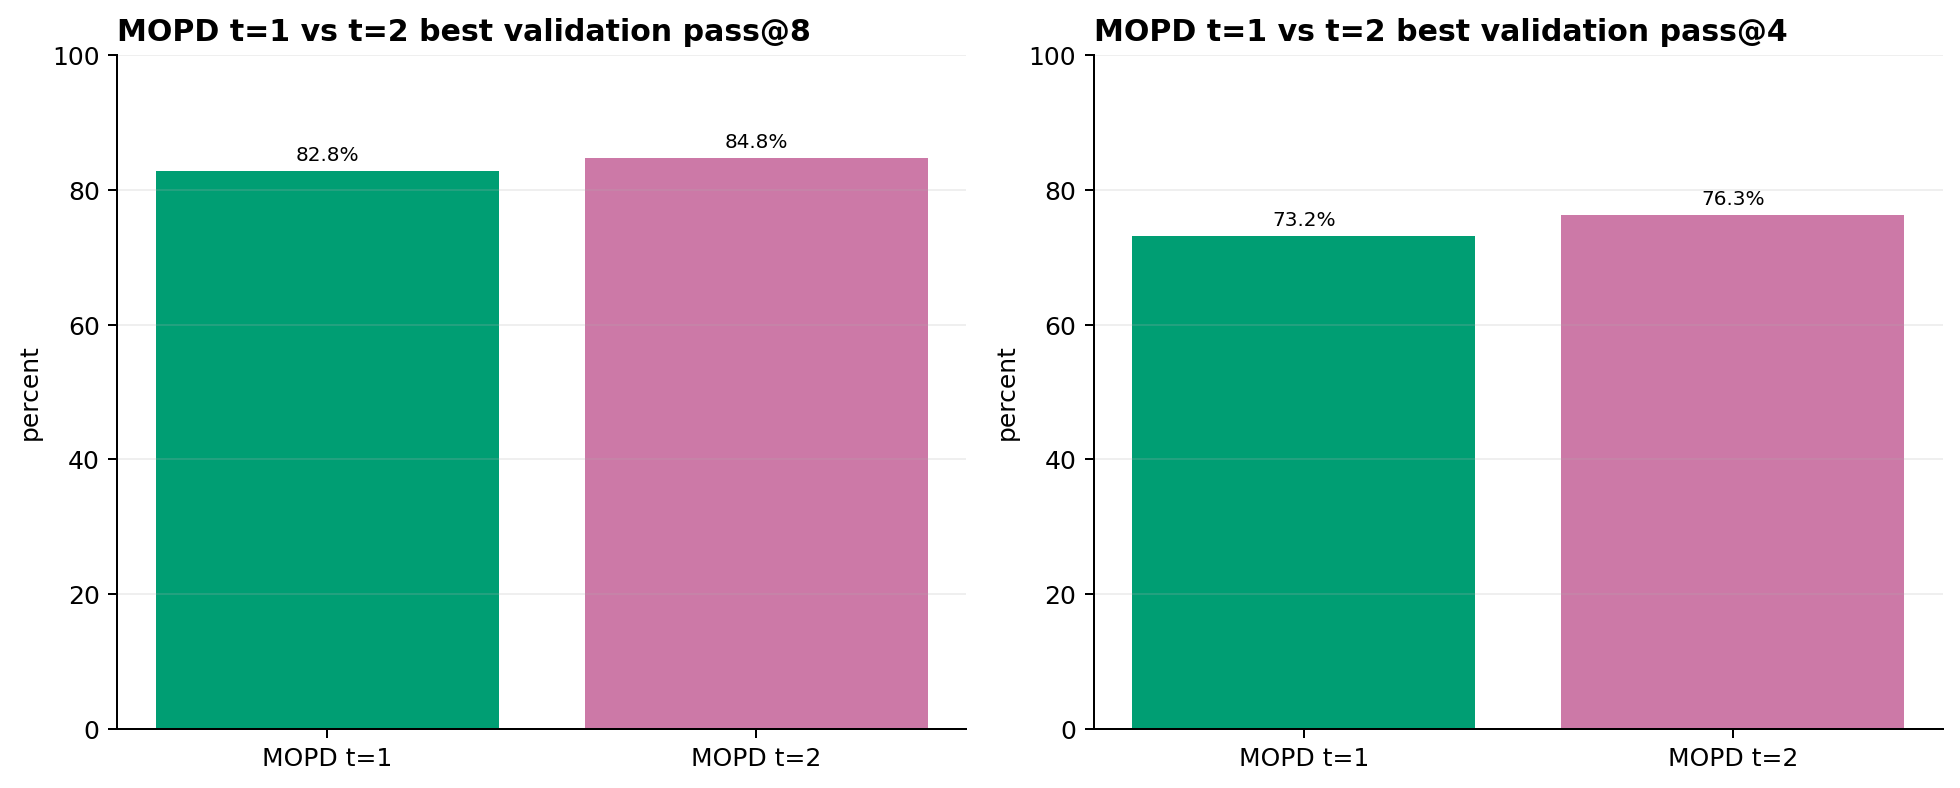
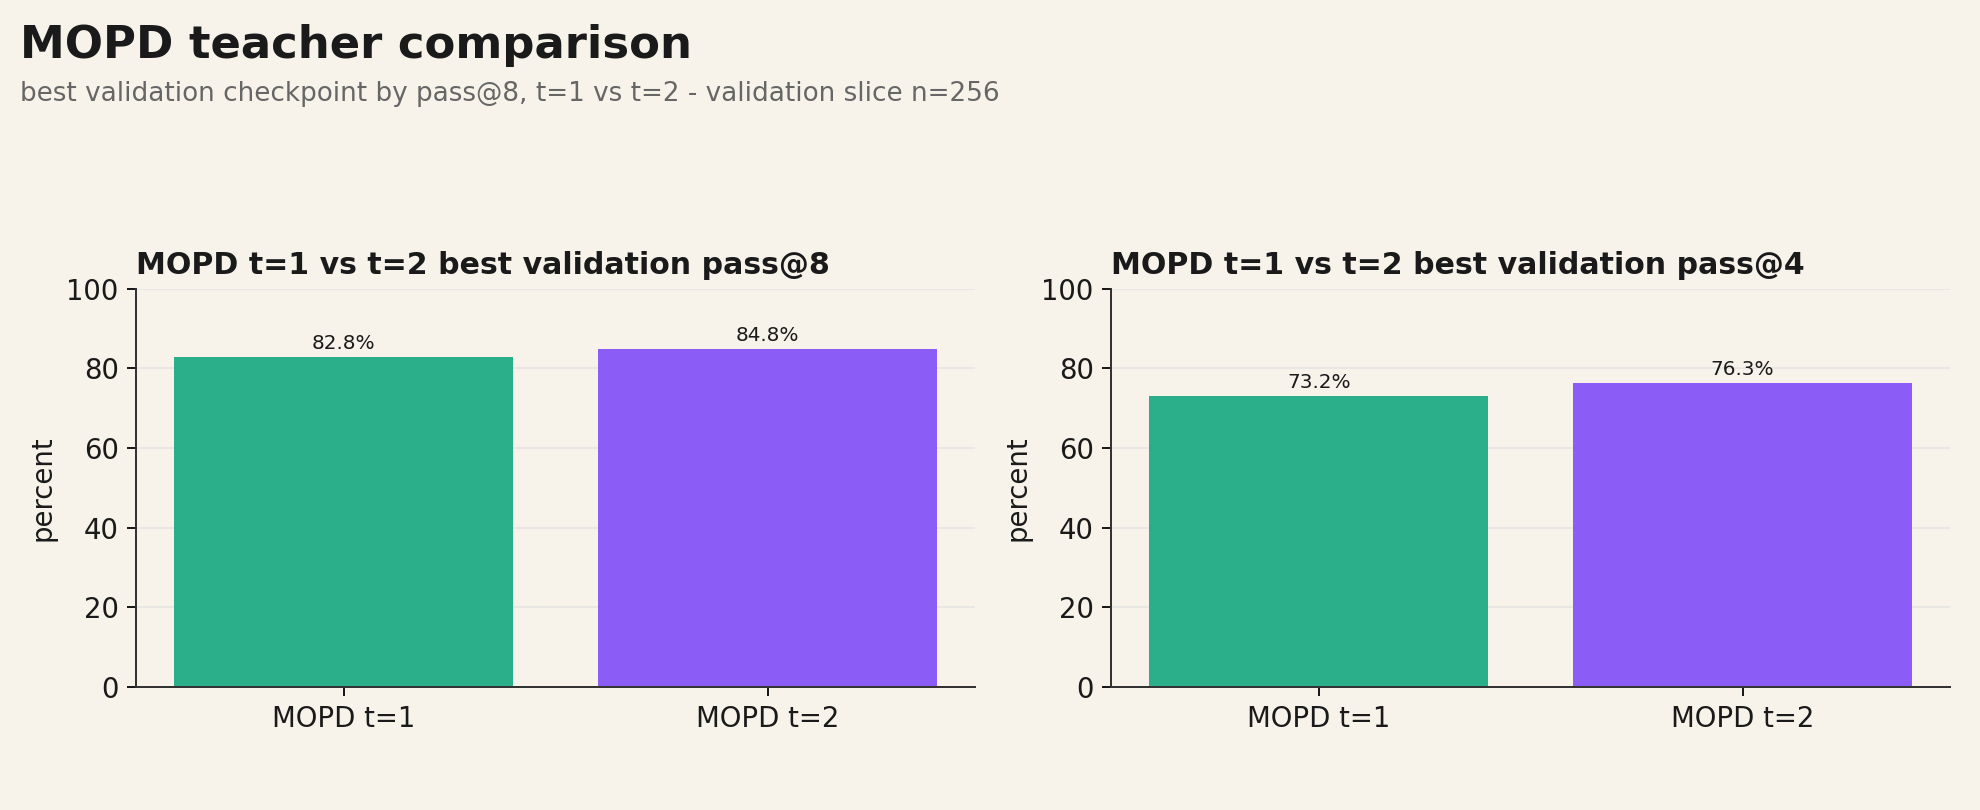
Restyle Qwen 1.5B graph suite to match 135M theme, fix data gaps and label overlap
Add MOPD to GSM8K pass@k sweep chart, remove stale pre-reorg figures,
apply cream-background theme with flat colors across all figures, drop
the empty full GSM8K test panel, cut historical SmolLM2 panels from the
MATH-500 chart, declutter overlapping value labels in the sweep and
validation-curve charts, and remove em dashes from all chart text.

diff --git a/experiments/qwen_1_5b/plot_suite.py b/experiments/qwen_1_5b/plot_suite.py
@@ -13,13 +13,38 @@ ROOT = Path(__file__).resolve().parents[2]
 RESULTS = ROOT / "experiments/q0_mopd/results"
 OUT = ROOT / "experiments/qwen_1_5b/figures"
 
+BG = "#F7F3EA"
+TEXT_DARK = "#1a1a1a"
+TEXT_GRAY = "#666666"
+
+plt.rcParams.update({
+    "figure.facecolor": BG,
+    "axes.facecolor": BG,
+    "savefig.facecolor": BG,
+    "axes.edgecolor": "#333333",
+    "axes.labelcolor": TEXT_DARK,
+    "xtick.color": TEXT_DARK,
+    "ytick.color": TEXT_DARK,
+    "text.color": TEXT_DARK,
+    "grid.color": "#dddddd",
+    "font.size": 11,
+})
+
 COLORS = {
-    "baseline": "#0072B2",
-    "q0": "#D55E00",
-    "mopd_t1": "#009E73",
-    "mopd_t2": "#CC79A7",
+    "baseline": "#4C6EF5",
+    "q0": "#F2994A",
+    "mopd_t1": "#2BAF8A",
+    "mopd_t2": "#8B5CF6",
     "metric": "#333333",
 }
+
+
+def subtitle(fig, text, y=0.9):
+    fig.text(0.01, y, text, fontsize=10.5, color=TEXT_GRAY, ha="left", va="top")
+
+
+def footnote(fig, text):
+    fig.text(0.01, 0.005, text, fontsize=9, color=TEXT_GRAY, ha="left", va="bottom", style="italic")
 
 
 def load_json(name):
@@ -48,9 +73,9 @@ def pct(value):
     return np.nan if value is None else 100 * float(value)
 
 
-def save(fig, name):
-    fig.tight_layout()
-    fig.savefig(OUT / f"{name}.png", dpi=180, bbox_inches="tight")
+def save(fig, name, top=0.90, bottom=0.06):
+    fig.tight_layout(rect=[0, bottom, 1, top])
+    fig.savefig(OUT / f"{name}.png", dpi=180, facecolor=BG)
     plt.close(fig)
 
 
@@ -63,21 +88,27 @@ def label_bars(ax, values, percent=False, precision=1):
         ax.text(bar.get_x() + bar.get_width() / 2, value + (1 if percent else max(abs(value) * 0.02, 0.005)), text, ha="center", va="bottom", fontsize=8)
 
 
-def label_line_points(ax, x, values, percent=False, every=None):
+def label_line_points(ax, x, values, percent=False, every=None, last_only=False, dy=5):
     for i, (x_value, value) in enumerate(zip(x, values)):
-        if not np.isfinite(value) or (every and i % every):
+        if not np.isfinite(value):
+            continue
+        if last_only:
+            if i != len(x) - 1:
+                continue
+        elif every and i % every:
             continue
         text = f"{value:.1f}%" if percent else f"{value:.3g}"
-        ax.annotate(text, (x_value, value), xytext=(0, 5), textcoords="offset points", ha="center", fontsize=7)
+        ax.annotate(text, (x_value, value), xytext=(0, dy), textcoords="offset points", ha="center", fontsize=7)
 
 
 def style(ax, title, xlabel=None, ylabel=None):
-    ax.set_title(title, loc="left", weight="bold")
+    ax.set_title(title, loc="left", weight="bold", fontsize=12, color=TEXT_DARK)
     if xlabel:
         ax.set_xlabel(xlabel)
     if ylabel:
         ax.set_ylabel(ylabel)
-    ax.grid(axis="y", alpha=0.2)
+    ax.grid(axis="y", alpha=0.5, color="#dddddd")
+    ax.set_axisbelow(True)
     ax.yaxis.set_major_formatter(FuncFormatter(lambda value, _: f"{value:,.0f}" if abs(value) >= 1000 else f"{value:g}"))
     ax.spines[["top", "right"]].set_visible(False)
 
@@ -122,7 +153,9 @@ def main():
     for ax in axes.flat:
         for line in ax.lines:
             label_line_points(ax, line.get_xdata(), line.get_ydata(), every=max(1, len(line.get_xdata()) // 4))
-    save(fig, "01_q0_training_metrics")
+    fig.suptitle("Q0 training dynamics", x=0.01, y=0.97, ha="left", fontsize=18, weight="bold", color=TEXT_DARK)
+    subtitle(fig, "reward, learning rate, and schedule multipliers vs baseline GRPO - 1.5B QLoRA laptop run")
+    save(fig, "01_q0_training_metrics", top=0.87)
 
     mix = load_json("../runs/q0_qwen1_5b_laptop/mixture_weights.json")
     if mix is None:
@@ -131,10 +164,12 @@ def main():
     labels = [label.replace("checkpoint", "step ").replace("step step ", "step ") for label in labels]
     fig, ax = plt.subplots(figsize=(10, 5))
     bars = ax.bar(labels, mix["weights"], color=COLORS["q0"])
-    style(ax, "Q0 learned mixture weights", ylabel="weight")
+    style(ax, "", ylabel="weight")
     label_bars(ax, mix["weights"], precision=3)
     ax.tick_params(axis="x", rotation=45)
-    save(fig, "02_q0_mixture_weights")
+    fig.suptitle("Q0 learned mixture weights", x=0.01, y=0.97, ha="left", fontsize=18, weight="bold", color=TEXT_DARK)
+    subtitle(fig, "softmax importance weight learned per retained snapshot")
+    save(fig, "02_q0_mixture_weights", top=0.85)
     for k, top in mix.get("top_k", {}).items():
         summary.append(result_row("Q0 mixture", "training", "", f"q0_k{k}", "fit_loss", mix.get("fit_loss"), "runs/q0_qwen1_5b_laptop/mixture_weights.json"))
 
@@ -155,13 +190,16 @@ def main():
     for ax in axes.flat:
         for line in ax.lines:
             label_line_points(ax, line.get_xdata(), line.get_ydata(), every=max(1, len(line.get_xdata()) // 4))
-    save(fig, "03_mopd_training_metrics")
+    fig.suptitle("MOPD training dynamics", x=0.01, y=0.97, ha="left", fontsize=18, weight="bold", color=TEXT_DARK)
+    subtitle(fig, "loss, learning rate, and response length across on-policy distillation teachers t=1 and t=2")
+    save(fig, "03_mopd_training_metrics", top=0.87)
     for label, rows, source in [("mopd_t1", mopd_t1, "runs/mopd_qwen1_5b_laptop/training_metrics.jsonl"), ("mopd_t2", mopd_t2, "runs/mopd_qwen1_5b_laptop_t2/training_metrics.jsonl")]:
         for metric in ["loss", "lr", "avg_response_length", "completion_tokens"]:
             summary.append(result_row("training", "steps", len(rows), label, metric, rows[-1][metric], source))
 
     validations = [("MOPD t=1", ROOT / "runs/mopd_qwen1_5b_laptop/validation_results.json", COLORS["mopd_t1"]), ("MOPD t=2", ROOT / "runs/mopd_qwen1_5b_laptop_t2/validation_results.json", COLORS["mopd_t2"])]
     fig, axes = plt.subplots(1, 2, figsize=(12, 4.5))
+    label_dy = {"MOPD t=1": 8, "MOPD t=2": -18}
     for label, path, color in validations:
         data = json.loads(path.read_text())
         steps = [x["step"] for x in data["candidates"]]
@@ -170,9 +208,7 @@ def main():
         for key in ["parse_at_1", "parse_at_4", "parse_at_8"]:
             axes[1].plot(steps, [pct(x[key]) for x in data["candidates"]], marker="o", label=f"{label} {key.replace('_', '@')}", color=color, alpha={"parse_at_1": .55, "parse_at_4": .75, "parse_at_8": 1}[key])
         for key in ["pass_at_1", "pass_at_4", "pass_at_8"]:
-            label_line_points(axes[0], steps, [pct(x[key]) for x in data["candidates"]], percent=True)
-        for key in ["parse_at_1", "parse_at_4", "parse_at_8"]:
-            label_line_points(axes[1], steps, [pct(x[key]) for x in data["candidates"]], percent=True)
+            label_line_points(axes[0], steps, [pct(x[key]) for x in data["candidates"]], percent=True, last_only=True, dy=label_dy[label])
         for candidate in data["candidates"]:
             for key in ["pass_at_1", "pass_at_4", "pass_at_8", "parse_at_1", "parse_at_4", "parse_at_8"]:
                 summary.append(result_row("GSM8K", "train_val_slice", data["validation_count"], label, key, candidate[key], str(path.relative_to(ROOT))))
@@ -180,9 +216,12 @@ def main():
     style(axes[1], "GSM8K validation parse@k by checkpoint", "training step", "percent")
     axes[0].legend(fontsize=8, frameon=False, ncol=2)
     axes[1].legend(fontsize=8, frameon=False, ncol=2)
+    axes[1].text(0.01, 0.06, "all checkpoints parse 94-100% of samples", transform=axes[1].transAxes, fontsize=8, color="#555555")
     for ax in axes:
         ax.set_ylim(0, 105)
-    save(fig, "04_mopd_validation_curves")
+    fig.suptitle("MOPD GSM8K validation by checkpoint", x=0.01, y=0.97, ha="left", fontsize=18, weight="bold", color=TEXT_DARK)
+    subtitle(fig, "pass@k and parse@k on the 256-example held-out validation slice")
+    save(fig, "04_mopd_validation_curves", top=0.83)
 
     passk = {}
     for path in sorted(RESULTS.glob("passk_*_gsm8kval.json")):
@@ -194,17 +233,20 @@ def main():
     fig, axes = plt.subplots(1, 2, figsize=(11, 4.5))
     names = ["baseline_grpo", "q0_k1", "q0_k2", "q0_k3", "mopd_t2"]
     display_names = {"baseline_grpo": "Baseline GRPO", "q0_k1": "q0 top-1", "q0_k2": "q0 top-2", "q0_k3": "q0 top-3", "mopd_t2": "MOPD t=2"}
-    sweep_colors = {"baseline_grpo": COLORS["baseline"], "mopd_t2": COLORS["mopd_t2"]}
+    sweep_colors = {"baseline_grpo": COLORS["baseline"], "q0_k1": "#F7B267", "q0_k2": COLORS["q0"], "q0_k3": "#C96A1D", "mopd_t2": COLORS["mopd_t2"]}
+    dy_map = {"baseline_grpo": 8, "q0_k1": 26, "q0_k2": 8, "q0_k3": -10, "mopd_t2": -28}
+    parse_labeled = {"baseline_grpo", "q0_k2", "mopd_t2"}
     x = np.arange(3)
     for name in names:
         data = passk.get(name)
         color = sweep_colors.get(name, COLORS["q0"])
         vals = [pct(data["result"].get(k)) if data else np.nan for k in ["pass_at_1", "pass_at_4", "pass_at_8"]]
         axes[0].plot(x, vals, marker="o", label=display_names[name], color=color)
-        label_line_points(axes[0], x, vals, percent=True)
+        label_line_points(axes[0], x, vals, percent=True, dy=dy_map[name])
         parse = [pct(data["result"].get(k)) if data else np.nan for k in ["parse_at_1", "parse_at_4", "parse_at_8"]]
         axes[1].plot(x, parse, marker="o", label=display_names[name], color=color)
-        label_line_points(axes[1], x, parse, percent=True)
+        if name in parse_labeled:
+            label_line_points(axes[1], x, parse, percent=True, dy=dy_map[name])
         source = "runs/mopd_qwen1_5b_laptop_t2/validation_results.json" if name == "mopd_t2" else (f"experiments/q0_mopd/results/passk_{name}_gsm8kval.json" if data else "pending")
         for metric, value in zip(["pass_at_1", "pass_at_4", "pass_at_8", "parse_at_1", "parse_at_4", "parse_at_8"], (vals + parse)):
             summary.append(result_row("GSM8K", "train_val_slice", 256, name, metric, None if np.isnan(value) else value / 100, source, "available" if data else "missing"))
@@ -213,7 +255,9 @@ def main():
         ax.set_xticks(x, [f"pass@{k}" for k in keys])
         ax.set_ylim(0, 105)
         ax.legend(frameon=False)
-    save(fig, "05_q0_gsm8k_sweep")
+    fig.suptitle("Q0 GSM8K validation sweep", x=0.01, y=0.97, ha="left", fontsize=18, weight="bold", color=TEXT_DARK)
+    subtitle(fig, "pass@k and parse@k across mixture size, plus MOPD t=2 for reference - validation slice n=256")
+    save(fig, "05_q0_gsm8k_sweep", top=0.83)
 
     fig, axes = plt.subplots(1, 2, figsize=(11, 4.5))
     for name, color in [("mopd_t1", COLORS["mopd_t1"]), ("mopd_t2", COLORS["mopd_t2"])]:
@@ -228,27 +272,13 @@ def main():
     axes[0].set_ylim(0, 100); axes[1].set_ylim(0, 100)
     label_bars(axes[0], [pct(max(json.loads(path.read_text())["candidates"], key=lambda x: x["pass_at_8"])["pass_at_8"]) for _, path, _ in validations], percent=True)
     label_bars(axes[1], [pct(max(json.loads(path.read_text())["candidates"], key=lambda x: x["pass_at_8"])["pass_at_4"]) for _, path, _ in validations], percent=True)
-    save(fig, "06_mopd_t1_vs_t2")
+    fig.suptitle("MOPD teacher comparison", x=0.01, y=0.97, ha="left", fontsize=18, weight="bold", color=TEXT_DARK)
+    subtitle(fig, "best validation checkpoint by pass@8, t=1 vs t=2 - validation slice n=256")
+    save(fig, "06_mopd_t1_vs_t2", top=0.82)
 
-    math500 = load_json("math500_results.json")
     mathk = load_json("passk_mopd_best_math500.json")
     math_baseline = load_json("passk_baseline_math500.json")
     math_q0 = load_json("passk_q0_best_math500.json")
-    fig, axes = plt.subplots(2, 2, figsize=(12, 8))
-    historical = math500["results"] if math500 else {}
-    historical_names = {
-        "baseline_grpo": "Baseline",
-        "q0_best_single": "q0 single",
-        "q0_learned_top4": "q0 mixture",
-        "mopd": "MOPD",
-    }
-    for name, data in historical.items():
-        display_name = historical_names.get(name, name.replace("_", " "))
-        color = COLORS["baseline"] if "baseline" in name else COLORS["q0"] if "q0" in name else COLORS["mopd_t1"]
-        axes[0, 0].bar(display_name, pct(data.get("accuracy")), color=color)
-        axes[0, 1].bar(display_name, pct(data.get("parse_rate")), color=color)
-        summary.append(result_row("MATH-500", "test", 500, name, "accuracy_single_pass_historical", data.get("accuracy"), "math500_results.json"))
-        summary.append(result_row("MATH-500", "test", 500, name, "parse_rate_single_pass_historical", data.get("parse_rate"), "math500_results.json"))
 
     current = [
         (math_baseline, "Baseline GRPO", COLORS["baseline"], "passk_baseline_math500.json"),
@@ -259,7 +289,8 @@ def main():
     current_x = np.arange(len(current))
     pass_values = [pct(data["result"].get("pass_at_4")) if data else np.nan for data, _, _, _ in current]
     parse_values = [pct(data["result"].get("parse_at_4")) if data else np.nan for data, _, _, _ in current]
-    for ax, values in [(axes[1, 0], pass_values), (axes[1, 1], parse_values)]:
+    fig, axes = plt.subplots(1, 2, figsize=(11, 4.5))
+    for ax, values in [(axes[0], pass_values), (axes[1], parse_values)]:
         heights = [value if np.isfinite(value) else 0 for value in values]
         colors = [color if np.isfinite(value) else "#D9D9D9" for value, (_, _, color, _) in zip(values, current)]
         bars = ax.bar(current_x, heights, color=colors, width=0.62)
@@ -276,20 +307,14 @@ def main():
     if mathk:
         summary.append(result_row("MATH-500", "test", 500, "mopd_t2", "pass_at_4", mathk["result"].get("pass_at_4"), "passk_mopd_best_math500.json"))
 
-    panels = [
-        (axes[0, 0], "Historical single-pass accuracy"),
-        (axes[0, 1], "Historical single-pass parse rate"),
-        (axes[1, 0], "Current Qwen pass@4"),
-        (axes[1, 1], "Current Qwen parse@4"),
-    ]
-    for index, (ax, title) in enumerate(panels):
+    panels = [(axes[0], "MATH-500 pass@4"), (axes[1], "MATH-500 parse@4")]
+    for ax, title in panels:
         style(ax, title, ylabel="percent")
-        ax.tick_params(axis="x", rotation=15)
+        ax.tick_params(axis="x", rotation=10)
         ax.set_ylim(0, 110)
-        if index < 2:
-            label_bars(ax, [bar.get_height() for bar in ax.patches], percent=True)
-    fig.suptitle("MATH-500 comparison (test, n=500)", fontsize=16, weight="bold")
-    save(fig, "07_math500_comparisons")
+    fig.suptitle("MATH-500 comparison", x=0.01, y=0.97, ha="left", fontsize=18, weight="bold", color=TEXT_DARK)
+    subtitle(fig, "test split, n=500 - baseline vs q0 vs MOPD, four samples each")
+    save(fig, "07_math500_comparisons", top=0.82)
 
     gsm_full = load_json("passk_baseline_gsm8k.json")
     mopd_t2_val = json.loads((ROOT / "runs/mopd_qwen1_5b_laptop_t2/validation_results.json").read_text())
@@ -297,7 +322,7 @@ def main():
     mopd_t2_best = max(mopd_t2_val["candidates"], key=lambda x: x["pass_at_8"])
     gsm_val = {"baseline_grpo": passk.get("baseline_grpo"), "q0": passk.get("q0_k3"), "mopd": mopd_t2_best}
     gsm_full_value = gsm_full["result"].get("pass_at_1") if gsm_full else None
-    fig, axes = plt.subplots(2, 2, figsize=(12, 8))
+    fig, axes = plt.subplots(1, 3, figsize=(14, 5))
     methods = ["Baseline GRPO", "q0 top-2", "MOPD t=2"]
     colors = [COLORS["baseline"], COLORS["q0"], COLORS["mopd_t2"]]
 
@@ -308,31 +333,28 @@ def main():
         pct(gsm_val["q0"]["result"].get("pass_at_1")),
         pct(gsm_val["mopd"]["pass_at_1"]),
     ]
-    axes[0, 0].bar(gsm_val_methods, gsm_val_values, color=gsm_val_colors, width=0.62)
-    style(axes[0, 0], "GSM8K validation — pass@1", ylabel="percent")
-    axes[0, 0].text(0.01, 0.97, f"train validation slice, n={val_count}", transform=axes[0, 0].transAxes, va="top", fontsize=9, color="#555555")
-
-    gsm_test_value = pct(gsm_full_value)
-    axes[0, 1].bar(["Baseline GRPO"], [gsm_test_value], color=[COLORS["baseline"]], width=0.5)
-    style(axes[0, 1], "GSM8K test — pass@1", ylabel="percent")
-    axes[0, 1].text(0.01, 0.97, "full test set, n=1,319; q0/MOPD not evaluated", transform=axes[0, 1].transAxes, va="top", fontsize=9, color="#555555")
+    axes[0].bar(gsm_val_methods, gsm_val_values, color=gsm_val_colors, width=0.62)
+    style(axes[0], "GSM8K validation - pass@1", ylabel="percent")
+    axes[0].text(0.01, 0.97, f"train validation slice, n={val_count}", transform=axes[0].transAxes, va="top", fontsize=9, color="#555555")
 
     math_pass1 = [pct(x["result"].get("pass_at_1")) for x in [math_baseline, math_q0, mathk]]
-    axes[1, 0].bar(methods, math_pass1, color=colors, width=0.62)
-    style(axes[1, 0], "MATH-500 — pass@1", ylabel="percent")
-    axes[1, 0].text(0.01, 0.97, "test set, n=500", transform=axes[1, 0].transAxes, va="top", fontsize=9, color="#555555")
+    axes[1].bar(methods, math_pass1, color=colors, width=0.62)
+    style(axes[1], "MATH-500 - pass@1", ylabel="percent")
+    axes[1].text(0.01, 0.97, "test set, n=500", transform=axes[1].transAxes, va="top", fontsize=9, color="#555555")
 
     math_pass4 = [pct(x["result"].get("pass_at_4")) for x in [math_baseline, math_q0, mathk]]
-    axes[1, 1].bar(methods, math_pass4, color=colors, width=0.62)
-    style(axes[1, 1], "MATH-500 — pass@4", ylabel="percent")
-    axes[1, 1].text(0.01, 0.97, "test set, n=500", transform=axes[1, 1].transAxes, va="top", fontsize=9, color="#555555")
+    axes[2].bar(methods, math_pass4, color=colors, width=0.62)
+    style(axes[2], "MATH-500 - pass@4", ylabel="percent")
+    axes[2].text(0.01, 0.97, "test set, n=500", transform=axes[2].transAxes, va="top", fontsize=9, color="#555555")
 
-    for ax in axes.flat:
+    for ax in axes:
         ax.set_ylim(0, 105)
         ax.tick_params(axis="x", rotation=10)
         label_bars(ax, [bar.get_height() for bar in ax.patches], percent=True)
-    fig.suptitle("Qwen 1.5B experiment summary", fontsize=16, weight="bold")
-    save(fig, "08_final_experiment_comparison")
+    fig.suptitle("Qwen 1.5B experiment summary", x=0.01, y=0.97, ha="left", fontsize=18, weight="bold", color=TEXT_DARK)
+    subtitle(fig, "baseline vs q0 vs MOPD - every panel covers all three systems")
+    footnote(fig, "GSM8K full test set (n=1,319) was only run for baseline GRPO; see metrics_summary.csv for that single value.")
+    save(fig, "08_final_experiment_comparison", top=0.83)
     for method, data in [("baseline_grpo", math_baseline), ("q0", math_q0), ("mopd", mathk)]:
         for metric in ["pass_at_1", "pass_at_4"]:
             value = data["result"].get(metric) if data else None
@@ -342,7 +364,7 @@ def main():
     with (OUT / "metrics_summary.csv").open("w", newline="") as handle:
         writer = csv.DictWriter(handle, fieldnames=["dataset", "split", "count", "method", "metric", "value", "source", "status"])
         writer.writeheader(); writer.writerows(summary)
-    (OUT / "README.md").write_text("""# Qwen 1.5B q0/MOPD graph suite\n\nRun `python experiments/qwen_1_5b/plot_suite.py` from the repository root. The script reads structured logs/results on every run and writes PNG figures plus `metrics_summary.csv` here. Training and sweep figures are independent of pending evaluations; comparison figures update automatically when pending pass-k JSON files appear.\n\n## Caveats\n\n- GSM8K checkpoint validation counts are read from each validation file; current files use their recorded `train_val_slice` count. GSM8K sweep files use their recorded count (currently 256). GSM8K full-test baseline, when available, is plotted in the summary only against itself because q0/MOPD full-test values are not available.\n- MATH-500 is the `test` split, count 500. Existing `math500_results.json` is a historical single-pass run with SmolLM2-135M metadata, so it is plotted separately from current Qwen pass@k results and must not be treated as a like-for-like Qwen comparison.\n- Missing pending values are left blank in the CSV and labeled `missing` in the figures.\n""")
+    (OUT / "README.md").write_text("""# Qwen 1.5B q0/MOPD graph suite\n\nRun `python experiments/qwen_1_5b/plot_suite.py` from the repository root. The script reads structured logs/results on every run and writes PNG figures plus `metrics_summary.csv` here. Training and sweep figures are independent of pending evaluations; comparison figures update automatically when pending pass-k JSON files appear.\n\n## Caveats\n\n- GSM8K checkpoint validation counts are read from each validation file; current files use their recorded `train_val_slice` count. GSM8K sweep files use their recorded count (currently 256). GSM8K full-test baseline, when available, is plotted in the summary only against itself because q0/MOPD full-test values are not available.\n- MATH-500 is the `test` split, count 500, current Qwen 1.5B pass@4/parse@4 only. `math500_results.json` (historical SmolLM2-135M single-pass run) is not plotted here - not comparable to the current Qwen pass@k results.\n- Missing pending values are left blank in the CSV and labeled `missing` in the figures.\n""")
 
 
 if __name__ == "__main__":

diff --git a/experiments/qwen_1_5b/figures/README.md b/experiments/qwen_1_5b/figures/README.md
@@ -5,5 +5,5 @@ Run `python experiments/qwen_1_5b/plot_suite.py` from the repository root. The s
 ## Caveats
 
 - GSM8K checkpoint validation counts are read from each validation file; current files use their recorded `train_val_slice` count. GSM8K sweep files use their recorded count (currently 256). GSM8K full-test baseline, when available, is plotted in the summary only against itself because q0/MOPD full-test values are not available.
-- MATH-500 is the `test` split, count 500. Existing `math500_results.json` is a historical single-pass run with SmolLM2-135M metadata, so it is plotted separately from current Qwen pass@k results and must not be treated as a like-for-like Qwen comparison.
+- MATH-500 is the `test` split, count 500, current Qwen 1.5B pass@4/parse@4 only. `math500_results.json` (historical SmolLM2-135M single-pass run) is not plotted here - not comparable to the current Qwen pass@k results.
 - Missing pending values are left blank in the CSV and labeled `missing` in the figures.
